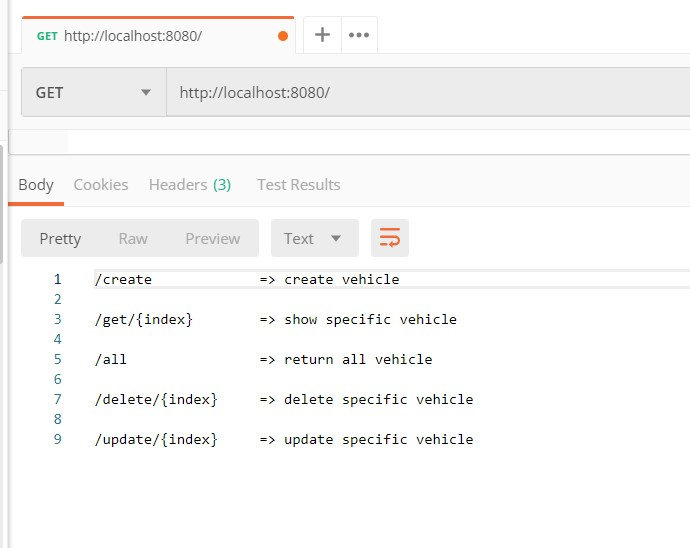
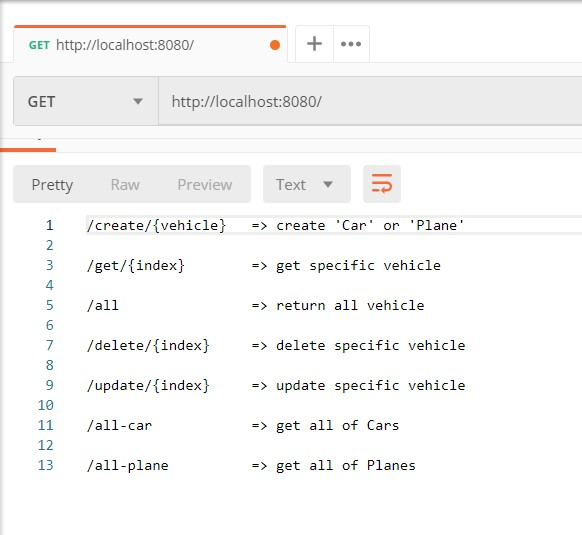
assigment2 v2

diff --git a/src/main/java/com/example/vehicleshop/VehicleShopApplication.java b/src/main/java/com/example/vehicleshop/VehicleShopApplication.java
@@ -17,18 +17,20 @@ import java.util.List;
 @RestController
 public class VehicleShopApplication {
     private VehicleSingleton singleton = VehicleSingleton.getInstance();
-
+    private VehicleFactory vehicleFactory = new VehicleFactory();
     public static void main(String[] args) {
         SpringApplication.run(VehicleShopApplication.class, args);
     }
 
     @RequestMapping("/")
     public String home(){
-        String s = "/create\t\t\t\t=> create vehicle\n\n";
-        s+= "/get/{index}\t\t=> show specific vehicle\n\n";
+        String s = "/create/{vehicle}\t=> create 'Car' or 'Plane'\n\n";
+        s+= "/get/{index}\t\t=> get specific vehicle\n\n";
         s+= "/all\t\t\t\t=> return all vehicle\n\n";
         s+= "/delete/{index}\t\t=> delete specific vehicle\n\n";
-        s+= "/update/{index}\t\t=> update specific vehicle";
+        s+= "/update/{index}\t\t=> update specific vehicle\n\n";
+        s+= "/all-car\t\t\t=> get all of Cars\n\n";
+        s+= "/all-plane\t\t\t=> get all of Planes";
         return s;
     }
 
@@ -37,9 +39,21 @@ public class VehicleShopApplication {
         return singleton.getAllVehicles();
     }
 
-    @RequestMapping(value = "/create", method = RequestMethod.POST)
-    public ResponseEntity<List<Vehicle>> create(@RequestBody Car car) {
-        this.singleton.createVehicle(car);
+    @RequestMapping(value = "/create/{vehicle}", method = RequestMethod.POST)
+    public ResponseEntity<List<Vehicle>> create(@RequestBody Vehicle v,@PathVariable("vehicle") String vehicleType) {
+        //to create specific type fo vehicle like car of plane
+        Vehicle vehicle = vehicleFactory.getVehicle(vehicleType);
+
+        vehicle.setFuel(v.getFuel());
+        vehicle.setAvailable(v.isAvailable());
+        vehicle.setSpeed(v.getSpeed());
+        vehicle.setColor(v.getColor());
+        vehicle.setType(v.getType());
+
+        // if we just pass v as argument in the first place then we cant know that what is the exactly type of v,
+        // because we pass v as parameter in type Of Vehicle not Car or Plane so the above line of code are the make sure
+//        that we already check and create the exactly type.
+        this.singleton.createVehicle(vehicle);
         return new ResponseEntity<List<Vehicle>>(this.singleton.getAllVehicles(), HttpStatus.OK);
     }
 
@@ -49,7 +63,7 @@ public class VehicleShopApplication {
     }
 
     @RequestMapping(value = "/update/{index}", method = RequestMethod.POST)
-    public ResponseEntity<List<Vehicle>> update(@PathVariable("index")int index, @RequestBody Car vehicle) {
+    public ResponseEntity<List<Vehicle>> update(@PathVariable("index")int index, @RequestBody Vehicle vehicle) {
         this.singleton.update(index, vehicle);
         return new ResponseEntity<List<Vehicle>>(this.singleton.getAllVehicles(), HttpStatus.OK);
     }
@@ -59,5 +73,17 @@ public class VehicleShopApplication {
         this.singleton.delete(index);
         return new ResponseEntity<List<Vehicle>>(this.singleton.getAllVehicles(), HttpStatus.OK);
     }
+
+    @RequestMapping(value = "/all-car")
+    public ResponseEntity<List<Vehicle>> getAllCar() {
+        return new ResponseEntity<List<Vehicle>>(this.singleton.getAllCar(), HttpStatus.OK);
+    }
+
+    @RequestMapping(value = "/all-plane")
+    public ResponseEntity<List<Vehicle>> getAllPlane() {
+        return new ResponseEntity<List<Vehicle>>(this.singleton.getAllPlane(), HttpStatus.OK);
+    }
+
+
 
 }

diff --git a/src/main/java/desgin/pattern/vehicle/Car.java b/src/main/java/desgin/pattern/vehicle/Car.java
@@ -3,60 +3,19 @@ package desgin.pattern.vehicle;
 import java.io.Serializable;
 
 // java bean
-public class Car implements Vehicle, Serializable {
-    private String color;
-    private String type;
-    private int displacement;
-    boolean sunroof;
-    private int speed;
-    private boolean available;
-
-    public Car(){}
-    public Car(String color, String type, int displacement, boolean sunroof, int speed, boolean available) {
-        this.color = color;
-        this.type = type;
-        this.displacement = displacement;
-        this.sunroof = sunroof;
-        this.speed = speed;
-        this.available = available;
+public class Car extends Vehicle {
+    public Car() {
     }
 
-    public String getColor() {
-        return color;
-    }
-    public void setColor(String color) {
-        this.color = color;
-    }
-    public String getType() {
-        return type;
-    }
-    public void setType(String type) {
-        this.type = type;
-    }
-    public int getDisplacement() {
-        return displacement;
-    }
-    public void setDisplacement(int displacement) {
-        this.displacement = displacement;
-    }
-    public boolean hasSunroof() {
-        return sunroof;
-    }
-    public void setSunroof(boolean sunroof) {
-        this.sunroof = sunroof;
-    }
-    public int getSpeed() {
-        return speed;
-    }
-    public void setSpeed(int speed) {
-        this.speed = speed;
+    public Car(String color, int fuel, int speed, boolean available, String type) {
+        super(color, fuel, speed, available, type);
     }
 
-    public boolean isAvailable() {
-        return available;
-    }
-
-    public void setAvailable(boolean available) {
-        this.available = available;
+    //    just additional information to tell that how much car use fuel to move
+    public void move(){
+        if(getFuel()-50 >0){
+            System.out.println("Move.");
+        }
+        System.out.println("Please add Fuel.");
     }
 }

diff --git a/src/main/java/desgin/pattern/vehicle/VehicleFactory.java b/src/main/java/desgin/pattern/vehicle/VehicleFactory.java
@@ -1,5 +1,6 @@
 package desgin.pattern.vehicle;
 
+import java.io.CharArrayReader;
 import java.util.LinkedList;
 import java.util.List;
 // factory design pattern
@@ -12,19 +13,28 @@ public class VehicleFactory{
         }
         if(vehicleType.equalsIgnoreCase("Car")){
             return new Car();
+        }else if(vehicleType.equalsIgnoreCase("Plane")){
+            return new Plane();
         }
         return null;
     }
-    public static Vehicle creatCar(String color,String type, int displacement, boolean sunroof, int speed, boolean available){
-        Vehicle car = new VehicleFactory().getVehicle("Car");
-        car.setColor(color);
-        car.setDisplacement(displacement);
-        car.setSpeed(speed);
-        car.setSunroof(sunroof);
-        car.setType(type);
-        car.setAvailable(available);
-        return car;
-    }
+//    public static Vehicle creatCar(String color, int fuel, int speed, boolean available, String typeEngine){
+//        Vehicle car = new VehicleFactory().getVehicle("Car");
+//        car.setColor(color);
+//        car.setSpeed(speed);
+//        car.setAvailable(available);
+//        car.setFuel(fuel);
+//        ((Car)car).setTypeEngine(typeEngine);
+//        return car;
+//    }
+//    public static Vehicle creatPlane(String color, int fuel, int speed, boolean available){
+//        Vehicle plane = new VehicleFactory().getVehicle("Plane");
+//        plane.setColor(color);
+//        plane.setSpeed(speed);
+//        plane.setAvailable(available);
+//        plane.setFuel(fuel);
+//        return plane;
+//    }
 //    public static List<Vehicle> getAllVehicle(){
 //        LinkedList<Vehicle> vehicles = new LinkedList<>();
 ////        vehicles.add(VehicleFactory.creatCar("Yaris ATIV", 4, "LIFE ACTIVATED", 479000, true));

diff --git a/src/main/java/desgin/pattern/vehicle/Vehicle.java b/src/main/java/desgin/pattern/vehicle/Vehicle.java
@@ -1,16 +1,60 @@
 package desgin.pattern.vehicle;
 
-public interface Vehicle {
-    public String getColor();
-    public void setColor(String color);
-    public String getType();
-    public void setType(String type);
-    public int getDisplacement();
-    public void setDisplacement(int displacement) ;
-    public boolean hasSunroof() ;
-    public void setSunroof(boolean sunroof);
-    public int getSpeed() ;
-    public void setSpeed(int speed);
-    public boolean isAvailable() ;
-    public void setAvailable(boolean available) ;
+import java.io.Serializable;
+// java bean
+public class Vehicle implements Serializable {
+    private String color;
+    private int fuel;
+    private int speed;
+    private boolean available;
+    private String type;
+    public Vehicle(){}
+
+    public Vehicle(String color, int fuel, int speed, boolean available, String type) {
+        this.color = color;
+        this.fuel = fuel;
+        this.speed = speed;
+        this.available = available;
+        this.type = type;
+    }
+
+    public String getColor() {
+        return color;
+    }
+
+    public void setColor(String color) {
+        this.color = color;
+    }
+
+    public int getFuel() {
+        return fuel;
+    }
+
+    public void setFuel(int fuel) {
+        this.fuel = fuel;
+    }
+
+    public int getSpeed() {
+        return speed;
+    }
+
+    public void setSpeed(int speed) {
+        this.speed = speed;
+    }
+
+    public boolean isAvailable() {
+        return available;
+    }
+
+    public void setAvailable(boolean available) {
+        this.available = available;
+    }
+
+    public String getType() {
+        return type;
+    }
+
+    public void setType(String type) {
+        this.type = type;
+    }
 }

diff --git a/src/main/java/desgin/pattern/vehicle/VehicleSingleton.java b/src/main/java/desgin/pattern/vehicle/VehicleSingleton.java
@@ -2,6 +2,7 @@ package desgin.pattern.vehicle;
 
 import java.io.*;
 import java.util.LinkedList;
+import java.util.List;
 
 //ClassSingleton
 public class VehicleSingleton {
@@ -73,11 +74,11 @@ public class VehicleSingleton {
             FileOutputStream f = new FileOutputStream(new File("vehicleObject.txt"));
             ObjectOutputStream o = new ObjectOutputStream(f);
 
+            vehicles.get(index).setFuel(vehicle.getFuel());
             vehicles.get(index).setColor(vehicle.getColor());
-            vehicles.get(index).setType(vehicle.getType());
-            vehicles.get(index).setDisplacement(vehicle.getDisplacement());
-            vehicles.get(index).setSunroof(vehicle.hasSunroof());
             vehicles.get(index).setAvailable(vehicle.isAvailable());
+            vehicles.get(index).setSpeed(vehicle.getSpeed());
+            vehicles.get(index).setType(vehicle.getType());
 
             o.writeObject(vehicles);
 
@@ -106,5 +107,25 @@ public class VehicleSingleton {
         } catch (IOException e) {
             System.out.println("Error initializing stream");
         }
+    }
+    public List<Vehicle> getAllCar(){
+        readFile();
+        LinkedList<Vehicle> cars = new LinkedList<>();
+        for(Vehicle car:getAllVehicles()){
+            if(car instanceof  Car){
+                cars.add(car);
+            }
+        }
+        return cars;
+    }
+    public List<Vehicle> getAllPlane(){
+        readFile();
+        LinkedList<Vehicle> planes = new LinkedList<>();
+        for(Vehicle plane:getAllVehicles()){
+            if(plane instanceof  Plane){
+                planes.add(plane);
+            }
+        }
+        return planes;
     }
 }

diff --git a/src/main/java/desgin/pattern/vehicle/Plane.java b/src/main/java/desgin/pattern/vehicle/Plane.java
@@ -1,0 +1,19 @@
+package desgin.pattern.vehicle;
+// java bean
+public class Plane extends Vehicle{
+
+    public Plane() {
+    }
+
+    public Plane(String color, int fuel, int speed, boolean available, String type) {
+        super(color, fuel, speed, available, type);
+    }
+
+//    just additional information to tell that how much plane use fuel to fly
+    public void fly(){
+        if(getFuel()-200 >0){
+            System.out.println("Fly.");
+        }
+        System.out.println("Please add Fuel.");
+    }
+}
